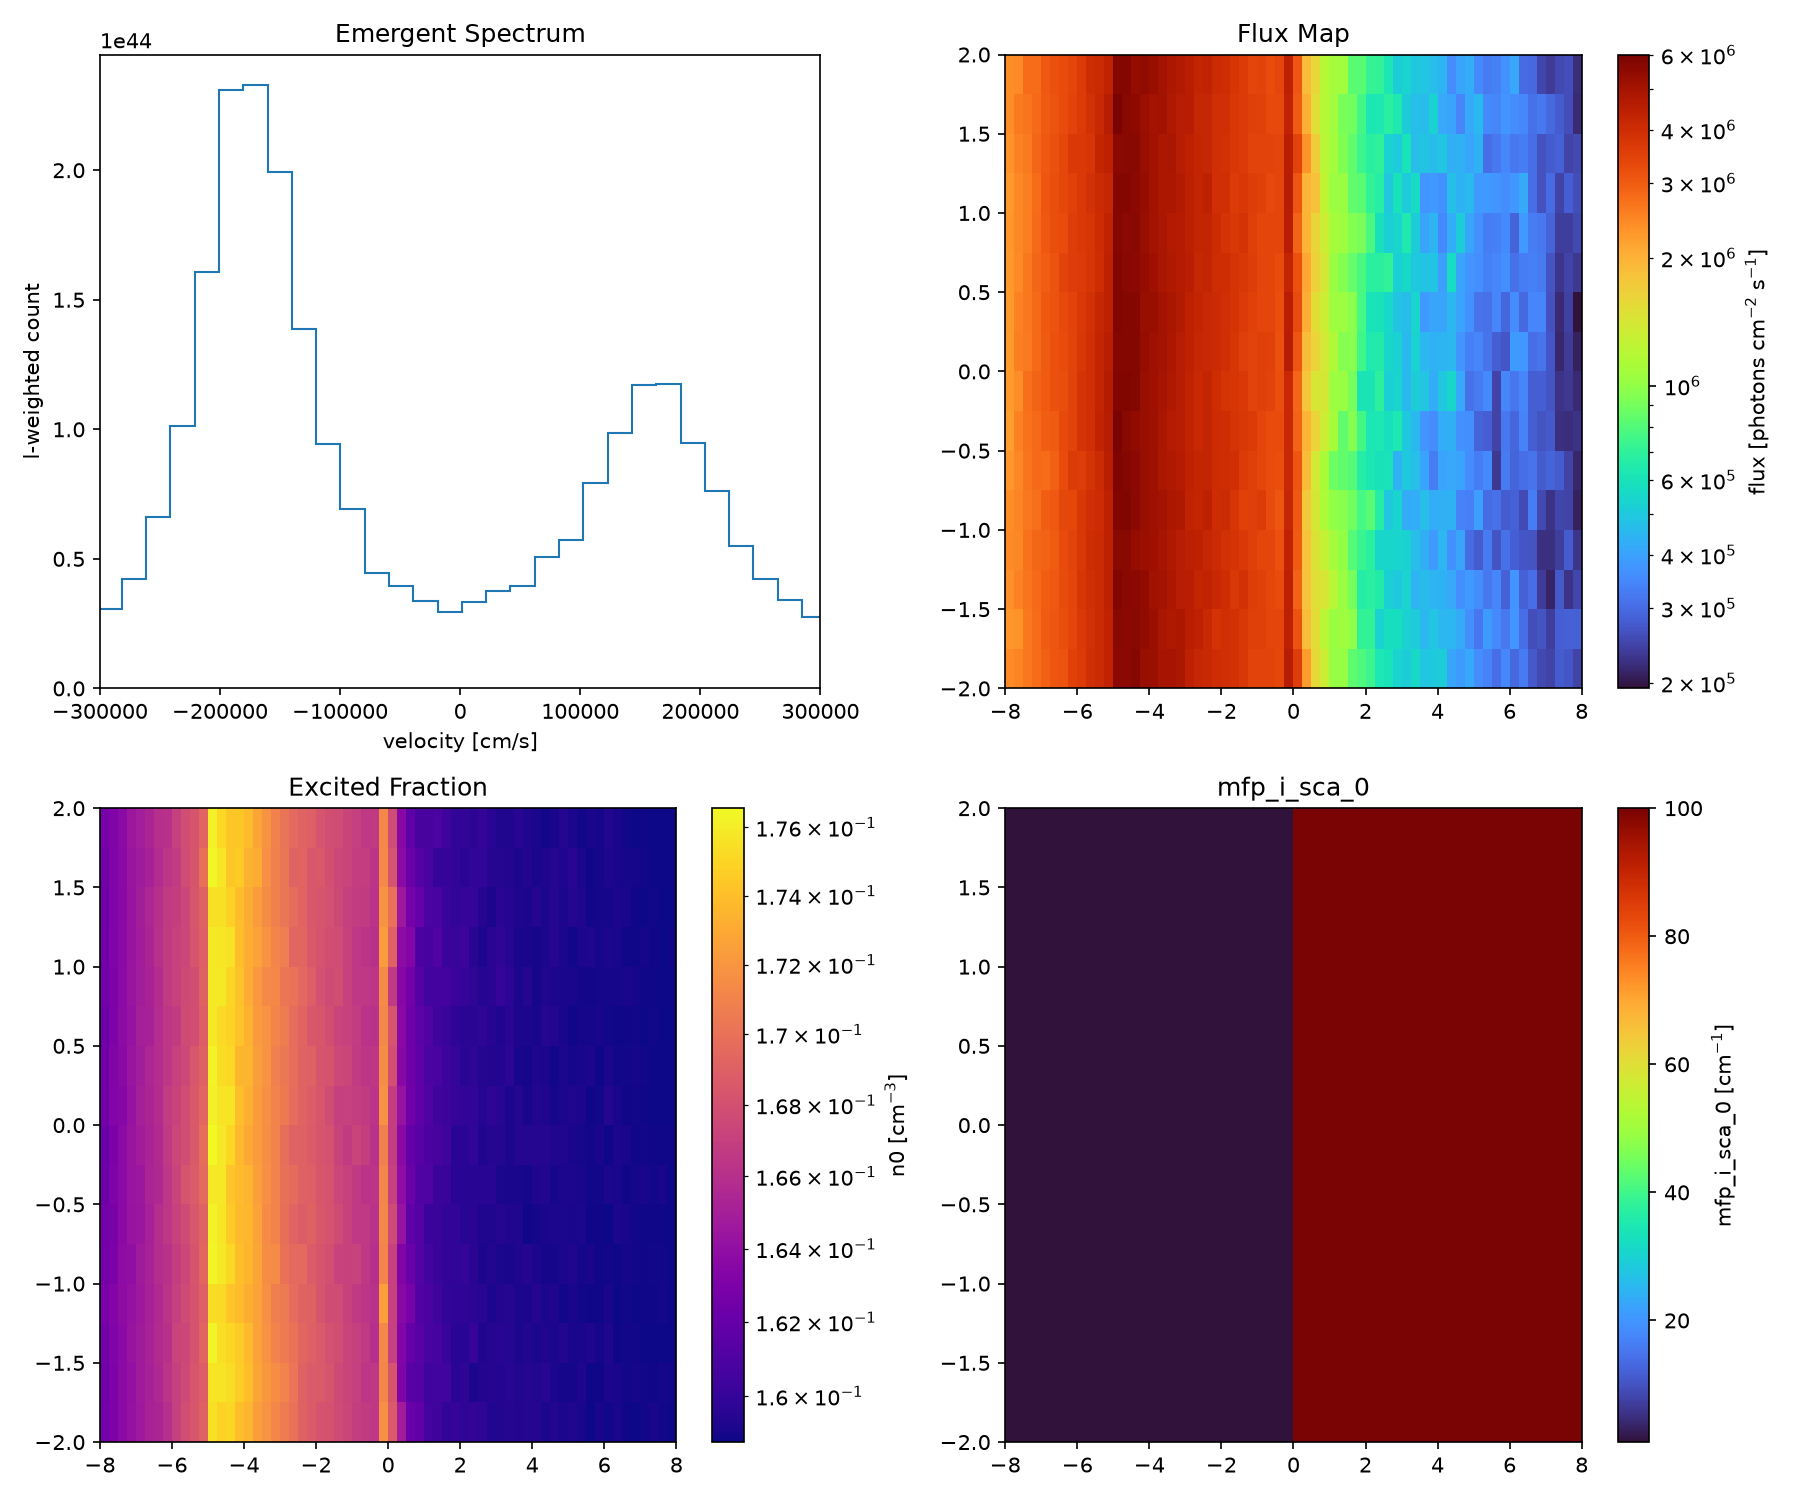
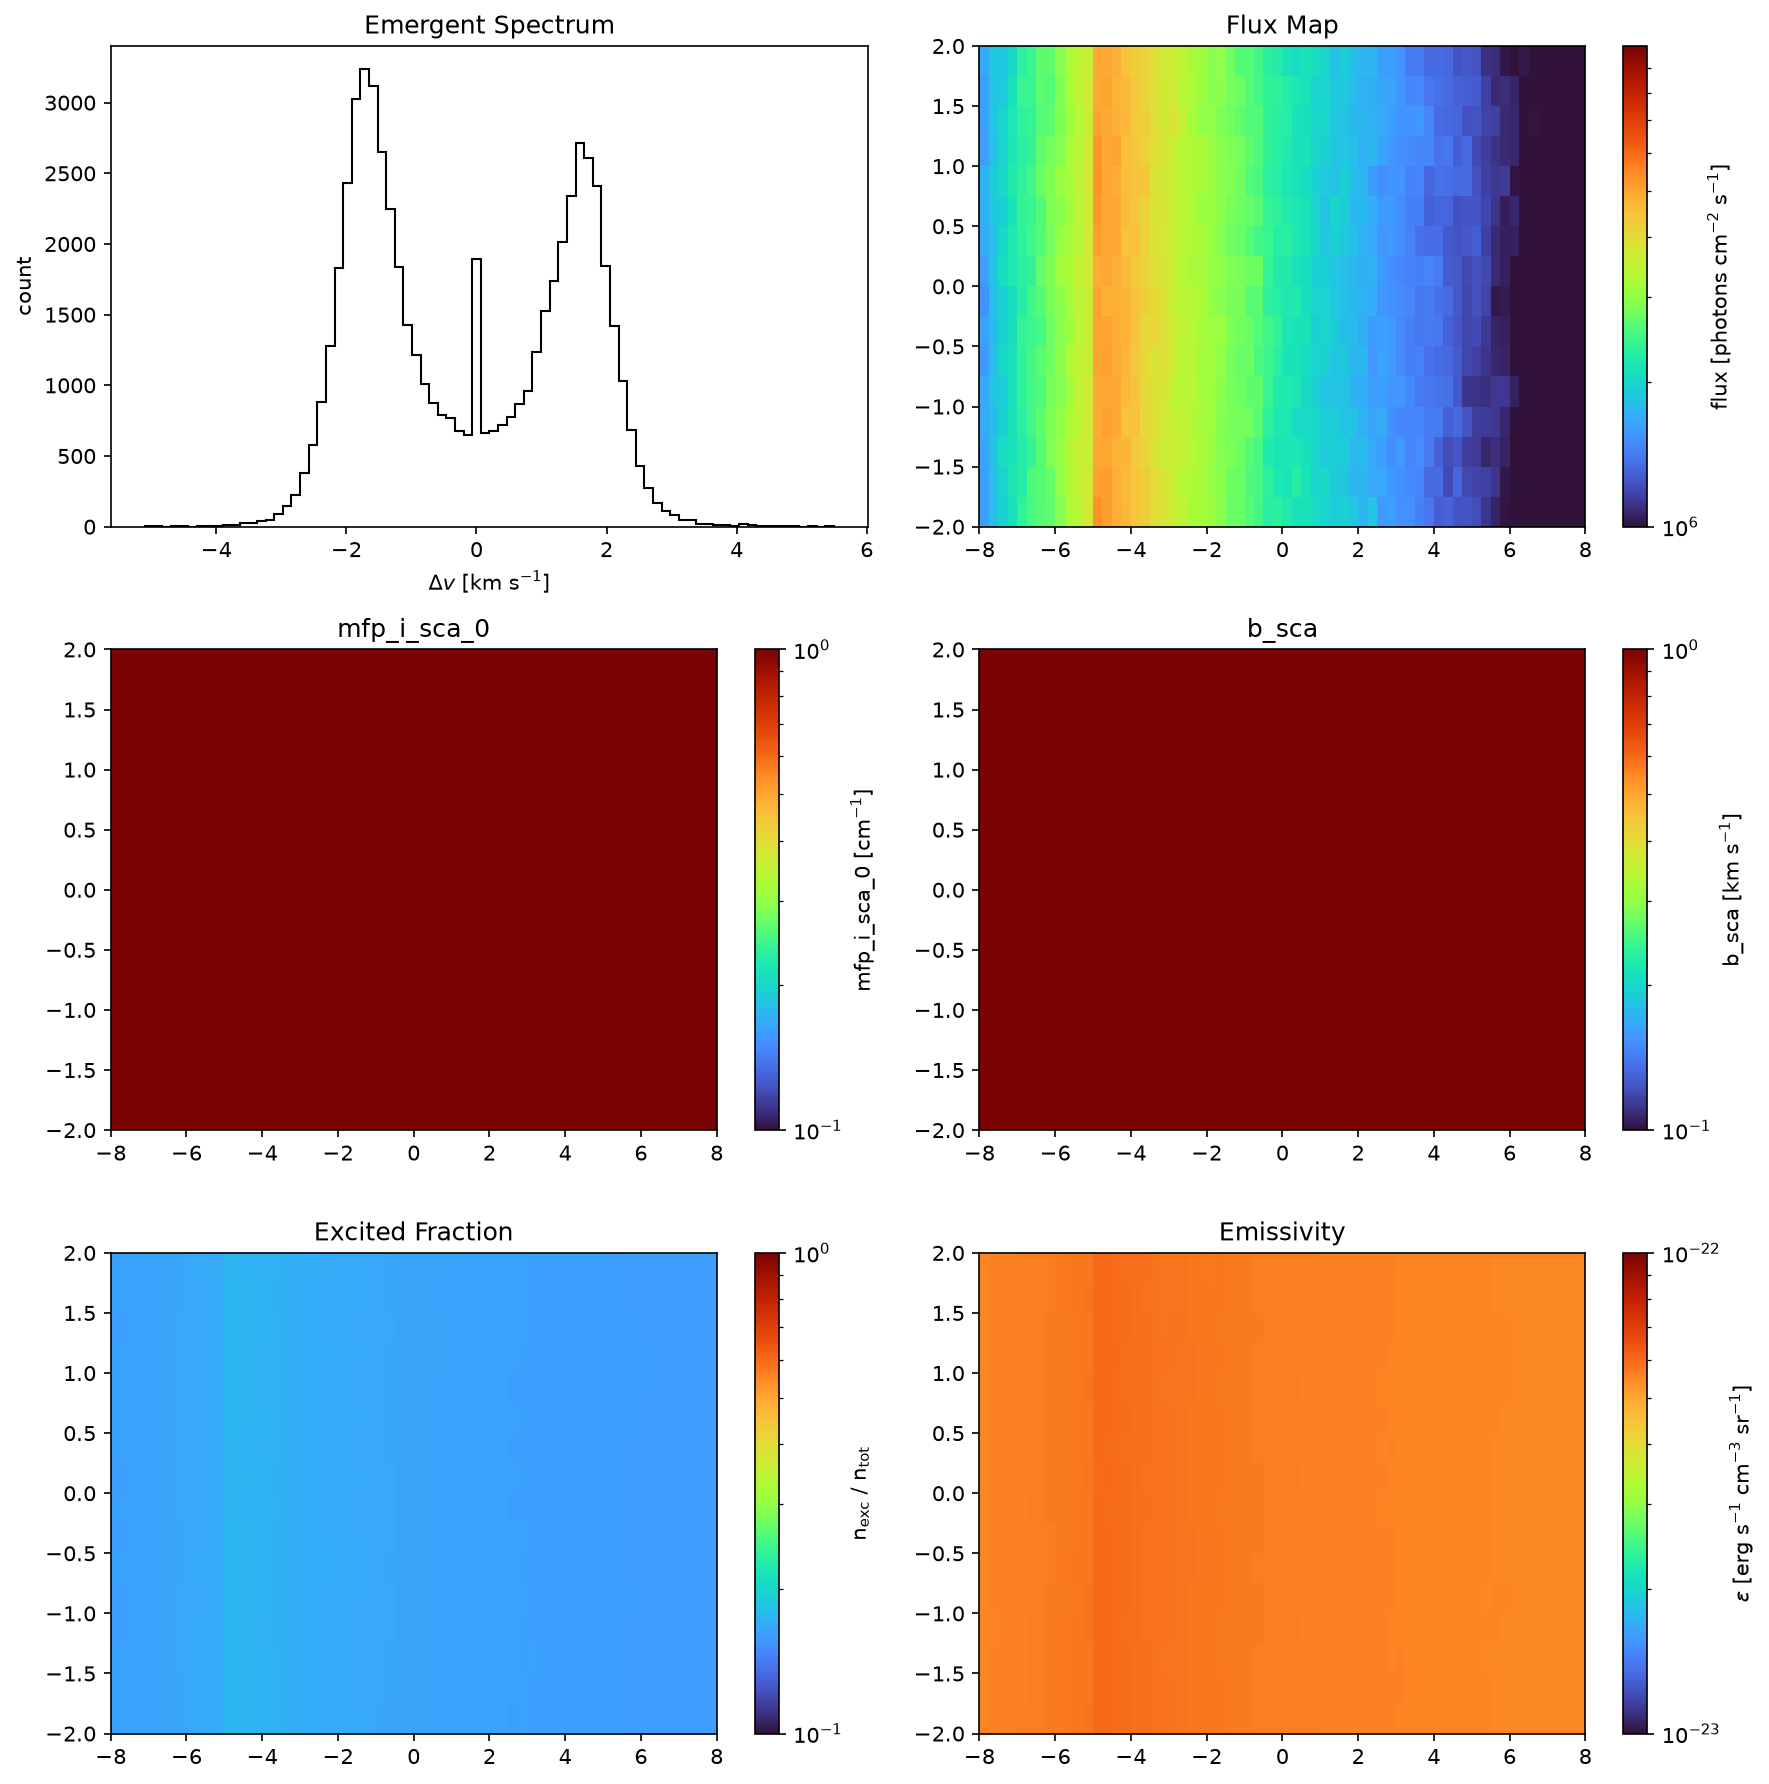
feat: default_plot() multi-panel function + interp_gen.py ijkl=0
- core/visualize.py: new default_plot(results, fields, slice_plane,
  slice_idx) - 2-column, N-row panels. Default fields: spectrum, flx,
  mfp_i_sca_0, b_sca, excited_fraction, emissivity. Spectrum panel is
  a histogram (km/s); all others are log colormaps. Log limits: upper
  = 10^ceil(log10(max)); lower = 10^(upper_dex - clip(span, 1, 6)).
  Missing fields -> blank panel with title. xy slice at middle-z by
  default; user-configurable via slice_plane/slice_idx.
- core/fields.py: slice_plot_2d respects explicit 'norm' kwarg.
- core/line_rt.py: stores b_sca/unit_l0/unit_t0 in results dict;
  _plot_results now calls default_plot().
- docs/examples/plane_parallel_hl.py + lowlevel.py: use default_plot()
  to generate the results PNG (6 panels, 3 rows x 2 cols).
- interp_gen.py (Kratos visual/): both functions now write ijkl=0 flag,
  consistent with write_field_data() and interp_t::read_bin().

diff --git a/core/visualize.py b/core/visualize.py
@@ -8,6 +8,211 @@ from .fields import slice_plot_2d
 _PLANE_MAP = {"x": "yz", "y": "xz", "z": "xy"}
 
 
+# ── Default multi-panel plot ────────────────────────────────────────
+
+
+_DEFAULT_FIELDS = [
+    "spectrum", "flx", "mfp_i_sca_0", "b_sca", "excited_fraction", "emissivity",
+]
+
+_FIELD_LABELS = {
+    "flx":              r"flux [photons cm$^{-2}$ s$^{-1}$]",
+    "mfp_i_sca_0":      r"mfp_i_sca_0 [cm$^{-1}$]",
+    "b_sca":            r"b_sca [km s$^{-1}$]",
+    "excited_fraction": r"n$_{\rm exc}$ / n$_{\rm tot}$",
+    "emissivity":       r"$\epsilon$ [erg s$^{-1}$ cm$^{-3}$ sr$^{-1}$]",
+}
+
+_FIELD_TITLES = {
+    "spectrum":         "Emergent Spectrum",
+    "flx":              "Flux Map",
+    "mfp_i_sca_0":      "mfp_i_sca_0",
+    "b_sca":            "b_sca",
+    "excited_fraction": "Excited Fraction",
+    "emissivity":       "Emissivity",
+}
+
+
+def _log_limits(data):
+    """Return (vmin, vmax) for a log colormap.
+
+    vmax = 10^ceil(log10(max)).
+    vmin = 10^(vmax_dex - d)  with  d = clip(log10(vmax/min_positive), 1, 6).
+    Returns (None, None) if no positive values.
+    """
+    pos = data[data > 0]
+    if pos.size == 0:
+        return None, None
+    dmax = float(pos.max())
+    upper_dex = int(np.ceil(np.log10(dmax)))
+    vmax = 10.0 ** upper_dex
+    dmin = float(pos.min())
+    span = upper_dex - np.log10(dmin)
+    span = int(np.clip(span, 1, 6))
+    vmin = 10.0 ** (upper_dex - span)
+    return vmin, vmax
+
+
+def _extract_field(results, field, unit_l0=1.0, unit_t0=1.0):
+    """Extract a 3D field array or spectrum data from the results dict.
+
+    Returns (data_3d_or_none, is_spectrum).
+    """
+    last = results.get("results", [{}])[-1] if results.get("results") else {}
+
+    if field == "spectrum":
+        return None, True
+
+    if field == "excited_fraction":
+        pops = results.get("populations", None)
+        if pops is None:
+            pops = last.get("populations", None)
+        if pops is None:
+            return None, False
+        n0 = np.asarray(pops.get("n0", pops.get("n_total", np.ones(1))),
+                        dtype=np.float64)
+        n_exc_keys = [k for k in pops if k.startswith("n") and k != "n0"
+                      and k != "n_total"]
+        n_exc = np.zeros_like(n0)
+        for k in n_exc_keys:
+            n_exc = n_exc + np.asarray(pops[k], dtype=np.float64)
+        denom = n0 + n_exc
+        denom[denom == 0] = 1.0
+        return n_exc / denom, False
+
+    if field == "b_sca":
+        b = results.get("b_sca", None)
+        if b is None:
+            return None, False
+        b = np.asarray(b, dtype=np.float64)
+        # convert cm/s -> km/s
+        return b * 1e-5, False
+
+    # generic: look in results first, then last cycle output
+    val = results.get(field, None)
+    if val is None:
+        val = last.get(field, None)
+    if val is None:
+        return None, False
+    return np.asarray(val, dtype=np.float64), False
+
+
+def default_plot(results, fields=None, slice_plane="z", slice_idx=None,
+                 ax=None, figsize=None, output_path=None):
+    """Multi-panel default plot for LineRt results.
+
+    2-column layout; number of rows = ceil(len(fields)/2).
+
+    Parameters
+    ----------
+    results : dict  from LineRt.run()
+    fields : list[str] or None  field names (default: spectrum, flx,
+        mfp_i_sca_0, b_sca, excited_fraction, emissivity).
+    slice_plane : str  "x"|"y"|"z"  slice axis for colormaps (default "z"
+        -> xy plane).
+    slice_idx : int or None  cell index along slice_plane (default: middle).
+    ax : array of Axes or None  (created if None).
+    figsize : tuple or None.
+    output_path : str or None  save figure if given.
+    """
+    if fields is None:
+        fields = list(_DEFAULT_FIELDS)
+
+    n = len(fields)
+    nrows = (n + 1) // 2
+    ncols = 2
+
+    if ax is None:
+        fig, axes = plt.subplots(nrows, ncols,
+                                 figsize=figsize or (12, 4 * nrows),
+                                 squeeze=False)
+    else:
+        axes = np.atleast_2d(ax)
+        fig = axes[0, 0].figure
+
+    mesh = results.get("mesh", {})
+    unit_l0 = results.get("unit_l0", 1.0)
+    unit_t0 = results.get("unit_t0", 1.0)
+    plane = _PLANE_MAP.get(slice_plane, "xy")
+
+    for i, field in enumerate(fields):
+        row, col = divmod(i, ncols)
+        ax_i = axes[row, col]
+        title = _FIELD_TITLES.get(field, field)
+
+        data, is_spectrum = _extract_field(results, field, unit_l0, unit_t0)
+
+        if is_spectrum:
+            _draw_spectrum(ax_i, results)
+            ax_i.set_title(title)
+            continue
+
+        if data is None:
+            ax_i.set_title(title)
+            ax_i.text(0.5, 0.5, "(no data)", transform=ax_i.transAxes,
+                      ha="center", va="center", fontsize=10)
+            ax_i.set_xticks([])
+            ax_i.set_yticks([])
+            continue
+
+        vmin, vmax = _log_limits(data)
+        norm = LogNorm(vmin=vmin, vmax=vmax) if vmin else None
+
+        pc = slice_plot_2d(ax_i, data, mesh, plane=plane,
+                           slice_idx=slice_idx, log=True, cmap="turbo",
+                           norm=norm)
+        if pc is not None:
+            cbar = plt.colorbar(pc, ax=ax_i)
+            cbar.set_label(_FIELD_LABELS.get(field, field))
+        ax_i.set_title(title)
+
+    # hide unused subplots
+    for i in range(n, nrows * ncols):
+        row, col = divmod(i, ncols)
+        axes[row, col].set_visible(False)
+
+    fig.tight_layout()
+    if output_path:
+        fig.savefig(output_path, dpi=150, bbox_inches="tight")
+    return fig, axes
+
+
+def _draw_spectrum(ax, results, bins=80):
+    """Draw emergent spectrum histogram in km/s."""
+    vel = np.array([])
+    weights = np.array([])
+    spec = results.get("spectrum", {})
+    if spec:
+        vel = np.asarray(spec.get("vel", []))
+        weights = np.asarray(spec.get("n", spec.get("weights",
+                           np.ones_like(vel))))
+    if len(vel) == 0:
+        for r in reversed(results.get("results", [])):
+            phot = r.get("photons", {})
+            vel = np.asarray(phot.get("vel", []))
+            if len(vel) > 0:
+                l_arr = np.asarray(phot.get("l", np.ones_like(vel)))
+                weights = l_arr.ravel() if l_arr.size == vel.size \
+                    else np.ones_like(vel)
+                break
+
+    if len(vel) == 0:
+        ax.text(0.5, 0.5, "(no escaped photons)", transform=ax.transAxes,
+                ha="center", va="center", fontsize=10)
+        ax.set_xticks([])
+        ax.set_yticks([])
+        return
+
+    vel_kms = vel.ravel() * 1e-5
+    ax.hist(vel_kms, bins=bins, weights=weights.ravel(),
+            histtype="step", color="black")
+    ax.set_xlabel(r"$\Delta v$ [km s$^{-1}$]")
+    ax.set_ylabel("count")
+
+
+# ── Legacy single-panel helpers (kept for backward compat) ──────────
+
+
 def _find_median(data_flat, mesh, axis):
     """Return median cell centre coordinate in CGS for a given axis."""
     n = int(mesh["n_cell"]["xyz".index(axis)])

diff --git a/docs/examples/plane_parallel_lowlevel.py b/docs/examples/plane_parallel_lowlevel.py
@@ -101,34 +101,23 @@ results, final_pops = iterate(
     par_overrides={"kinds": "fre fre per per per per"},
 )
 
-# ── 7. Plot ─────────────────────────────────────────────────────────
-fig, axes = plt.subplots(2, 2, figsize=(12, 10))
+# ── 7. Plot (default multi-panel) ────────────────────────────────────
+from core.visualize import default_plot
 
-if "photons" in results[-1]:
-    plot_emergent_spectrum(axes[0, 0], results[-1]["photons"], bins=60,
-                           xlim=(-3e5, 3e5))
-axes[0, 0].set_title("Emergent Spectrum")
+hl_results = {
+    "results":       results,
+    "populations":   final_pops,
+    "mesh":          mesh,
+    "unit_l0":       l0,
+    "unit_t0":       t0,
+    "b_sca":         fields.get("b_sca", np.full(shape3d, b_sca)),
+    "flx":           results[-1].get("flx"),
+    "spectrum":      {"vel": results[-1].get("photons", {}).get("vel", np.array([])),
+                      "n":   np.ones(len(results[-1].get("photons", {}).get("vel", [])))},
+}
 
-plot_flux_slice(axes[0, 1], results[-1]["flx"], mesh, title="Flux Map")
-
-if len(final_pops) >= 2:
-    vals = list(final_pops.values())
-    n_g, n_e = vals[0], vals[1]
-    plot_population_map(axes[1, 0], n_e / (n_g + n_e + 1e-30), mesh, title="Excited Fraction")
-
-emis = results[-1].get("emissivity")
-if emis is not None:
-    plot_flux_slice(axes[1, 1], emis, mesh, title="Emissivity",
-                    log=True, cbar_label=r"$\epsilon$ [erg s$^{-1}$ cm$^{-3}$ sr$^{-1}$]")
-else:
-    mfp_sca = results[-1].get("mfp_i_sca_0")
-    if mfp_sca is not None:
-        plot_flux_slice(axes[1, 1], mfp_sca, mesh, title="mfp_i_sca_0",
-                        log=False, cbar_label=r"mfp_i_sca_0 [cm$^{-1}$]")
-
-fig.tight_layout()
 outpath = os.path.join(os.path.dirname(__file__), "plane_parallel_lowlevel_results.png")
-fig.savefig(outpath, dpi=150)
+default_plot(hl_results, output_path=outpath)
 print(f"\nResults saved to {outpath}")
 
 for k, res in enumerate(results):

diff --git a/docs/examples/plane_parallel_hl.py b/docs/examples/plane_parallel_hl.py
@@ -46,7 +46,7 @@ n_cycle   = 3
 
 def n_total_callable(X, Y, Z):
     res = np.full(X.shape, n_species, dtype=np.float64);
-    res[X > 0] *= 1e2;
+    # res[X > 0] *= 1e2;
     return res;
 
 def temperature_callable(X, Y, Z):
@@ -89,40 +89,14 @@ print(f"Mesh: {rt._n_cell}, sources: {len(rt._sources)}")
 print( "Running %d MC cycles ..." % n_cycle );
 results = rt.run()
 
-# ── 4. Plot (same 4 panels as lowlevel) ─────────────────────────────
-res_list = results["results"]
-mesh = results["mesh"]
+# ── 4. Plot (default multi-panel) ────────────────────────────────────
+from core.visualize import default_plot
 
-fig, axes = plt.subplots(2, 2, figsize=(12, 10))
-
-if "photons" in res_list[-1]:
-    plot_emergent_spectrum(axes[0, 0], res_list[-1]["photons"], bins=60,
-                           xlim=(-3e5, 3e5))
-axes[0, 0].set_title("Emergent Spectrum")
-
-plot_flux_slice(axes[0, 1], res_list[-1]["flx"], mesh, title="Flux Map", slice_idx = 0)
-
-final_pops = results["populations"]
-if len(final_pops) >= 2:
-    vals = list(final_pops.values())
-    n_g, n_e = vals[0], vals[1]
-    plot_population_map(axes[1, 0], n_e / (n_g + n_e + 1e-30), mesh, title="Excited Fraction")
-
-emis = res_list[-1].get("emissivity")
-if emis is not None:
-    plot_flux_slice(axes[1, 1], emis, mesh, title="Emissivity",
-                    log=True, cbar_label=r"$\epsilon$ [erg s$^{-1}$ cm$^{-3}$ sr$^{-1}$]")
-else:
-    mfp_sca = res_list[-1].get("mfp_i_sca_0")
-    if mfp_sca is not None:
-        plot_flux_slice(axes[1, 1], mfp_sca, mesh, title="mfp_i_sca_0",
-                        log=False, cbar_label=r"mfp_i_sca_0 [cm$^{-1}$]")
-
-fig.tight_layout()
 outpath = os.path.join(os.path.dirname(__file__), "plane_parallel_hl_results.png")
-fig.savefig(outpath, dpi=150)
+default_plot(results, output_path=outpath)
 print(f"\nResults saved to {outpath}")
 
+res_list = results["results"]
 for k, res in enumerate(res_list):
     flx = res.get("flx")
     exc = res.get("exc_flux_flat", res.get("excitation_flux"))

diff --git a/core/line_rt.py b/core/line_rt.py
@@ -232,6 +232,7 @@ class LineRt:
             n_species_val = None
 
         b_sca_val = self._resolve_b_sca(XYZ)
+        self._b_sca_resolved = b_sca_val
         mfp_abs_val = self._resolve_field(self._mfp_i_abs_0, XYZ)
         vel_vals = self._resolve_vel(XYZ)
 
@@ -298,6 +299,9 @@ class LineRt:
             "populations": final_pops,
             "mesh": mesh,
             "run_dir": work_dir,
+            "unit_l0": self._unit_l0,
+            "unit_t0": self._unit_t0,
+            "b_sca": getattr(self, "_b_sca_resolved", None),
             "exc_flux_flat": results[-1].get("exc_flux_flat", None) if results else None,
             "flx": results[-1].get("flx", None) if results else None,
             "spectrum": spectrum,
@@ -521,11 +525,5 @@ class LineRt:
         return ph
 
     def _plot_results(self, out):
-        from .visualize import plot_flux, plot_population, plot_spectrum
-        import matplotlib.pyplot as plt
-        fig, axes = plt.subplots(1, 3, figsize=(16, 5))
-        plot_flux(out, ax=axes[0])
-        plot_population(out, ax=axes[1])
-        plot_spectrum(out, ax=axes[2])
-        fig.tight_layout()
-        plt.show()
+        from .visualize import default_plot
+        default_plot(out)

diff --git a/core/fields.py b/core/fields.py
@@ -102,7 +102,10 @@ def slice_plot_2d(ax, data, mesh, plane="xy", slice_idx=None, log=True, cmap="tu
             data_3d = data.reshape(nz, ny, nx)
     else:
         data_3d = data
-    norm = LogNorm() if log else None
+    if "norm" in kwargs:
+        norm = kwargs.pop("norm")
+    else:
+        norm = LogNorm() if log else None
 
     if coords == "cartesian":
         xe = _edges_from_mesh(mesh, 0)
